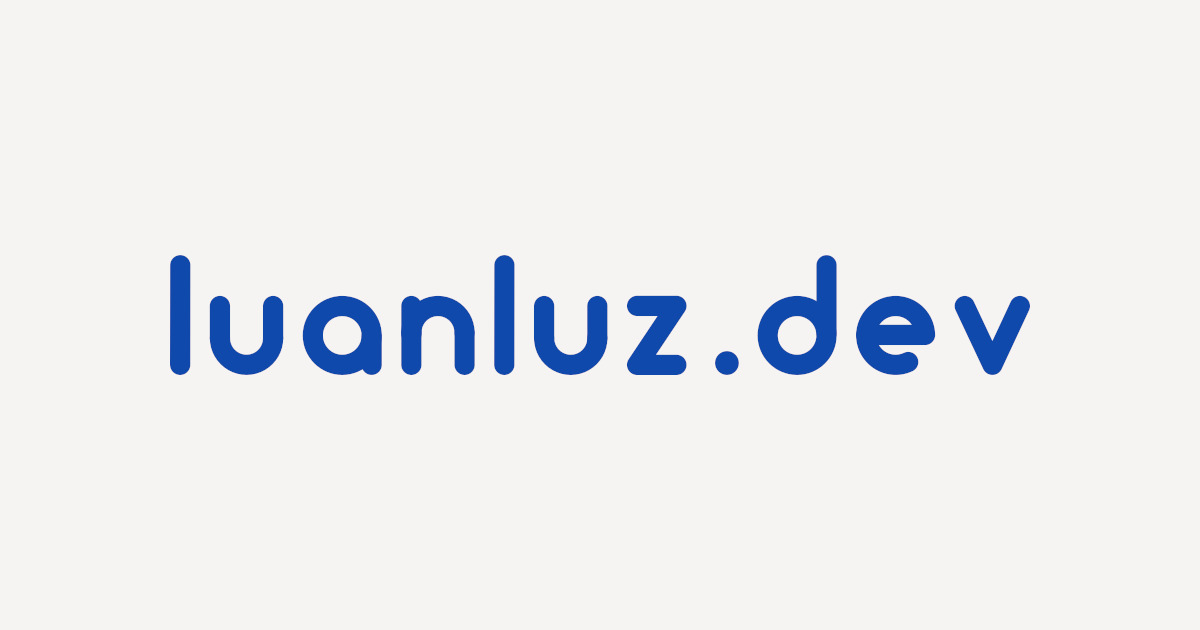
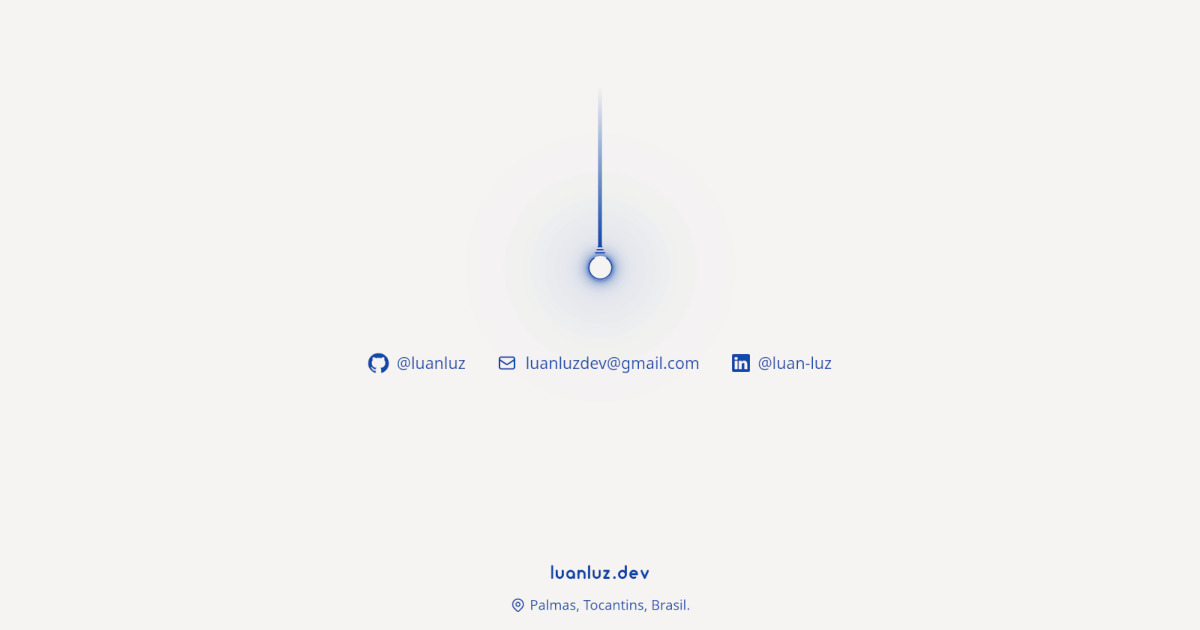
fix: Altera disposição de informações

Changed region(s): [[0.1233, 0.181, 0.8633, 0.6032], [0.4317, 0.9048, 0.5858, 0.9651]]

diff --git a/css/styles.css b/css/styles.css
@@ -205,11 +205,6 @@ main section .luz-logo {
   max-height: 4.5rem;
 }
 
-main section .luanluzdev {
-  max-height: 1.5rem;
-  margin-right: 0.5rem;
-}
-
 main section .links {
   display: flex;
   align-items: center;
@@ -254,7 +249,7 @@ main section .links a img[alt="LinkedIn"] {
   position: relative;
   display: inline-block;
   width: 60px;
-  height: 34px;
+  height: 2.125rem;
 }
 
 .switch input {
@@ -272,17 +267,17 @@ main section .links a img[alt="LinkedIn"] {
   bottom: 0;
   background-color: #ccc;
   transition: 0.4s;
-  border-radius: 34px;
+  border-radius: 2.125rem;
 }
 
 .slider:before {
   position: absolute;
   content: "";
-  height: 26px;
-  width: 26px;
+  height: 1.625rem;
+  width: 1.625rem;
   border-radius: 50%;
-  left: 4px;
-  bottom: 4px;
+  left: 0.25rem;
+  bottom: 0.25rem;
   background-color: white;
   transition: 0.4s;
 }
@@ -292,12 +287,21 @@ input:checked + .slider {
 }
 
 input:checked + .slider:before {
-  transform: translateX(26px);
+  transform: translateX(1.625rem);
 }
 
 footer {
   position: absolute;
   bottom: 1rem;
+  display: flex;
+  flex-direction: column;
+  gap: 1rem;
+}
+
+footer .luanluzdev {
+  display: block;
+  max-height: 0.85rem;
+  margin: 0 auto;
 }
 
 footer address {
@@ -305,10 +309,11 @@ footer address {
   justify-content: center;
   align-items: center;
   font-style: normal;
+  font-size: 0.85rem;
 }
 
 footer address img {
-  max-height: 1.25rem;
+  max-height: 1rem;
   margin-right: 0.25rem;
 }
 
@@ -326,5 +331,7 @@ footer address img {
 @media screen and (max-width: 480px) {
   main section .links {
     gap: 1.25rem;
+    flex-direction: column;
+    align-items: start;
   }
 }

diff --git a/index.html b/index.html
@@ -54,10 +54,6 @@
 
             <img class="luz-logo" src="assets/logos/luz-logo.svg" alt="Logo Luan Luz">
 
-            <span class="copyright">
-                <img class="luanluzdev" src="assets/logos/luanluzdev.svg" alt="luanluz.dev">
-            </span>
-
             <nav class="space-contents links">
                 <a href="https://github.com/luanluz" target="_blank" rel="noopener noreferrer" title="Github">
                     <img src="assets/images/social-networks/github.svg" alt="GitHub">
@@ -76,19 +72,19 @@
     </main>
 
     <footer>
-        <div class="content-site">
-            <div class="switch-container">
-                <label class="switch">
-                    <input type="checkbox" id="turnOnOff" checked>
-                    <span class="slider"></span>
-                </label>
-            </div>
-
-            <address class="space-contents color-white">
-                <img src="assets/icons/location-marker.svg" alt="Endereço">
-                Palmas, Tocantins, Brasil.
-            </address>
+        <div class="switch-container">
+            <label class="switch">
+                <input type="checkbox" id="turnOnOff" checked>
+                <span class="slider"></span>
+            </label>
         </div>
+
+        <img class="luanluzdev" src="assets/logos/luanluzdev.svg" alt="luanluz.dev">
+
+        <address class="color-white">
+            <img src="assets/icons/location-marker.svg" alt="Endereço">
+            Palmas, Tocantins, Brasil.
+        </address>
     </footer>
 
     <div class="splash-screen">
